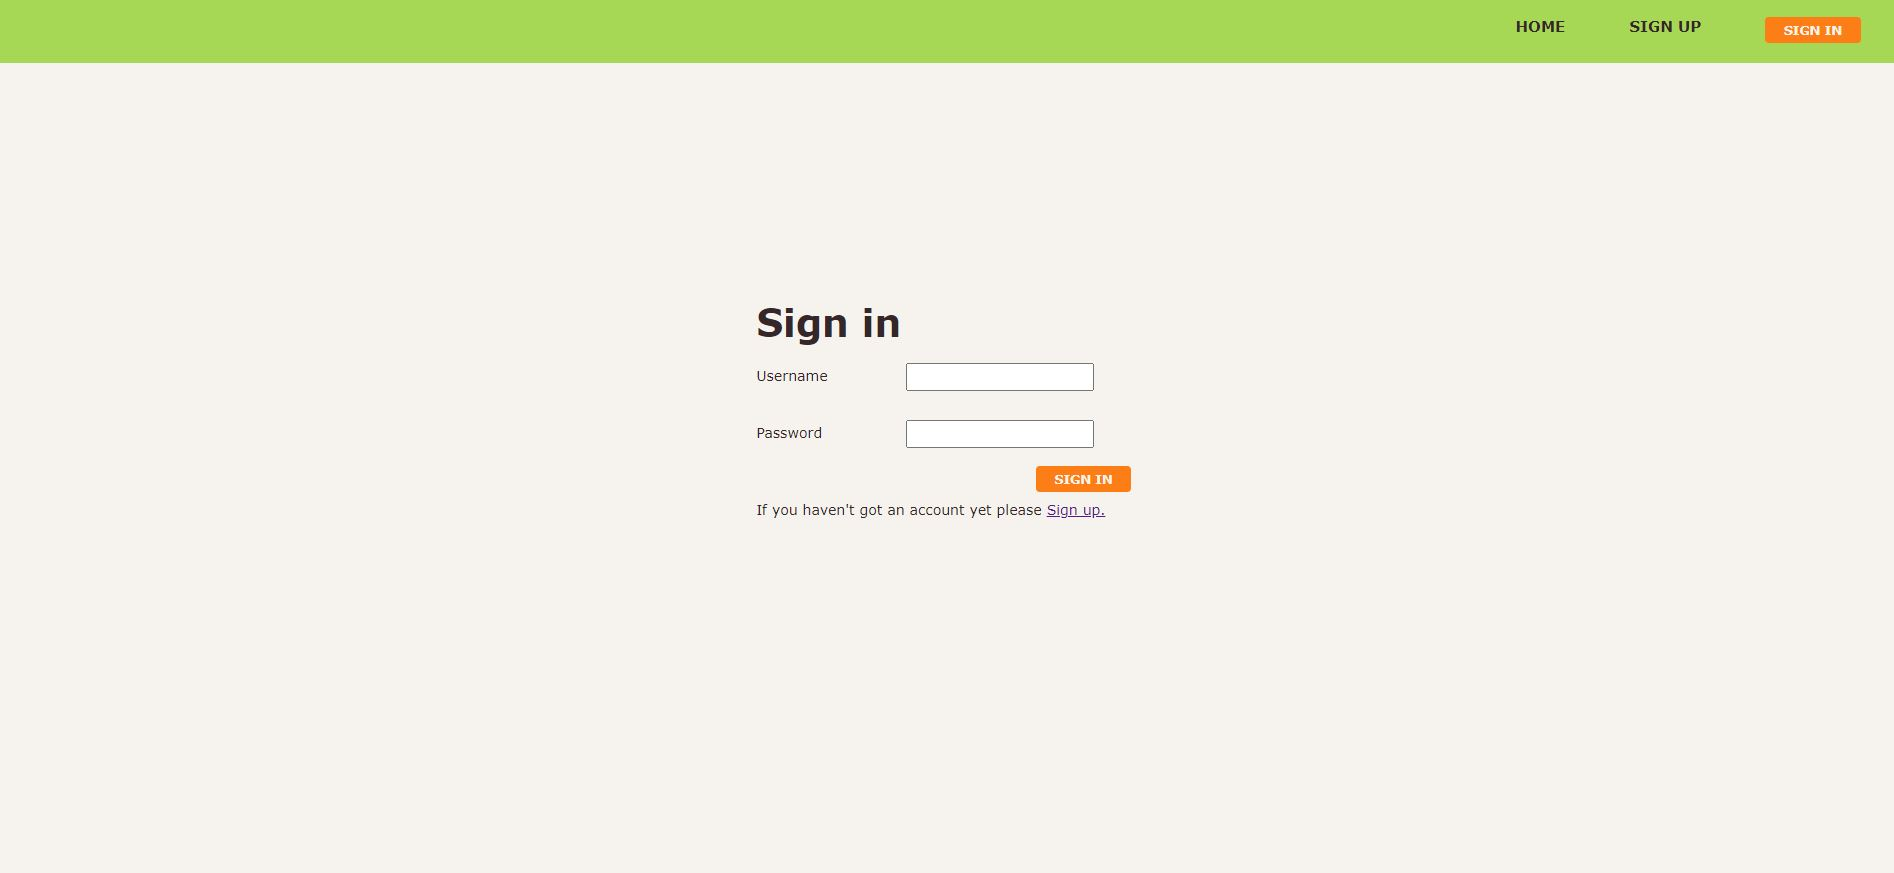
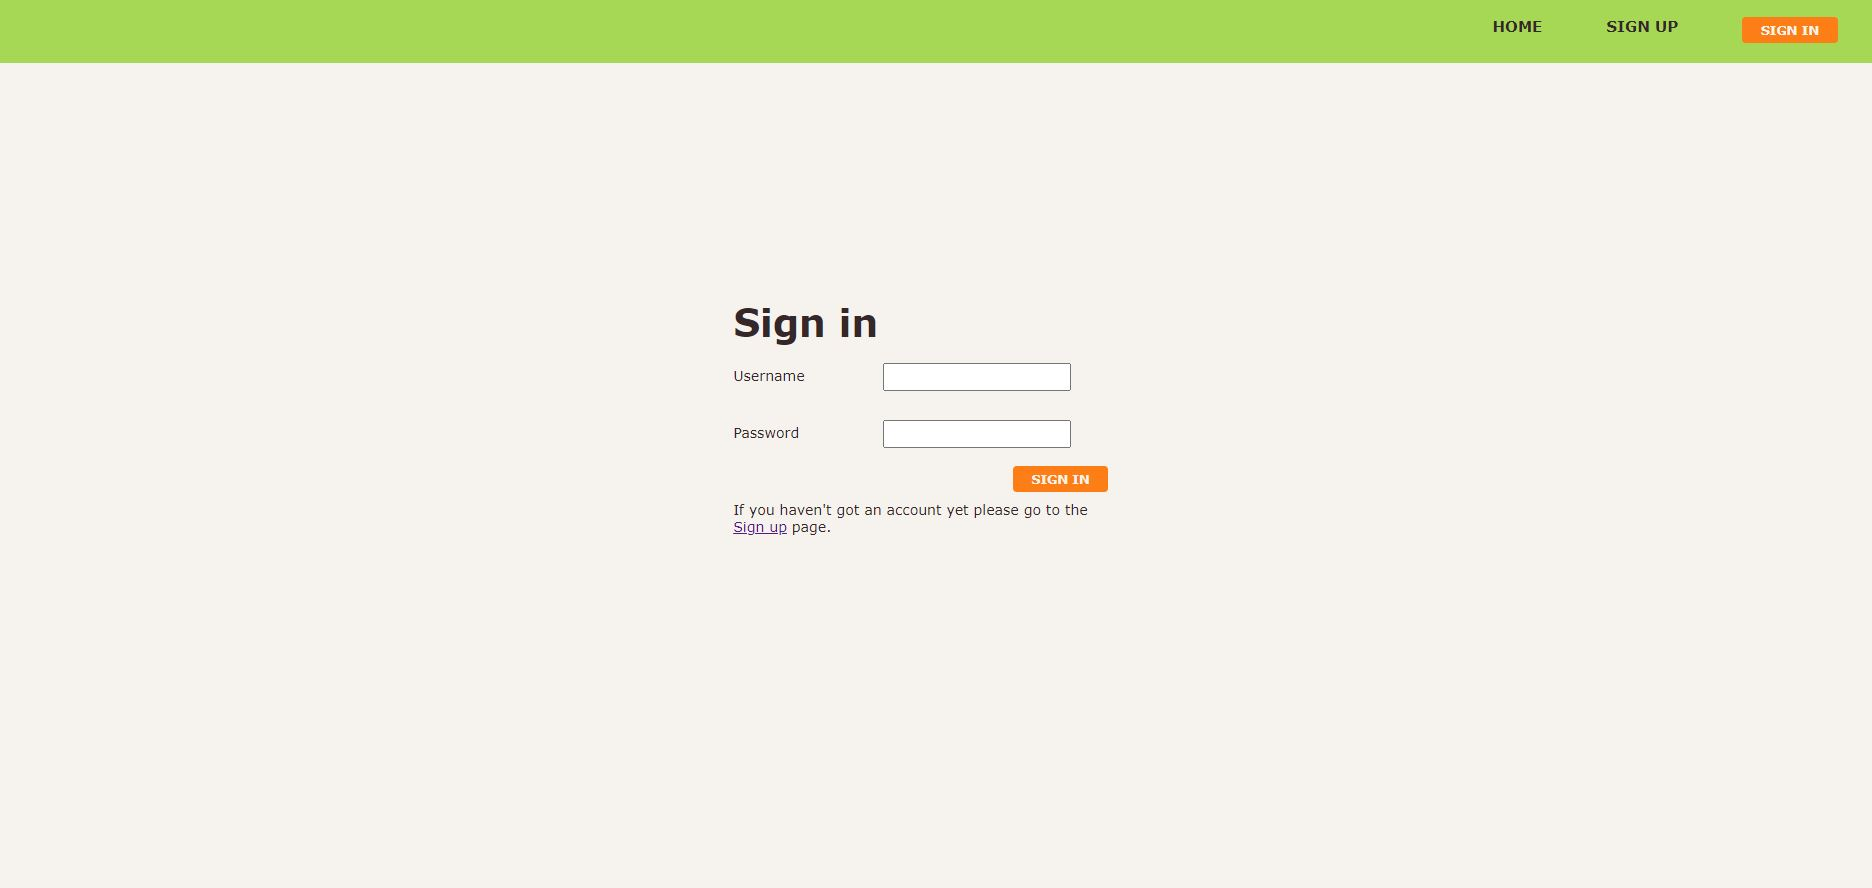
signIn and signUp changed and screenshots changed

diff --git a/src/pages/signUpPage/SignUpPage.js b/src/pages/signUpPage/SignUpPage.js
@@ -94,9 +94,9 @@ function SignUpPage() {
                     {registerSucces === true &&
                     <p>The registration succeeded. You'll be transferred to the login page</p>}
                 </form>
-                <p className={styles["navigation-register-help"]}>If you already have an account please go to <Link
+                <p className={styles["navigation-register-help"]}>If you already have an account please go to the <Link
                     to="/signin">Sign
-                    In.</Link></p>
+                    In</Link> page.</p>
                 {errorMessage && <span>Something went wrong with your registration, please try again later.</span>}
             </article>
         </div>

diff --git a/src/pages/signInPage/SignInPage.js b/src/pages/signInPage/SignInPage.js
@@ -65,9 +65,9 @@ function SignInPage() {
                         </Button>
                     </section>
                 </form>
-                <p className={styles["navigation-register-help"]}>If you haven't got an account yet please <Link
+                <p className={styles["navigation-register-help"]}>If you haven't got an account yet please go to the <Link
                     to="/signup">Sign
-                    up.</Link></p>
+                    up</Link> page.</p>
                 {errorMessage && <span>Something went wrong with logging you in, please try again later.</span>}
                 {loading && <span>Loading...</span>}
             </article>

diff --git a/src/components/recipeDetails/RecipeDetails.module.css b/src/components/recipeDetails/RecipeDetails.module.css
@@ -57,6 +57,7 @@ img.resize {
 
 .instruction-title-container {
     max-width: 500px;
+    text-align: center;
 }
 
 .recipe-tags {
@@ -84,6 +85,10 @@ img.resize {
 }
 
 @media screen and (min-width: 1295px) {
+
+    .instruction-title-container {
+       text-align: start;
+    }
 
     img.resize {
         margin: 20px;

diff --git a/src/components/inputField/InputField.module.css b/src/components/inputField/InputField.module.css
@@ -2,6 +2,7 @@
     height: 30px;
     margin: 10px;
     width: 200px;
+    padding-left: 5px;
 }
 
 .input-label {

diff --git a/src/components/searchBar/SearchBar.module.css b/src/components/searchBar/SearchBar.module.css
@@ -2,4 +2,5 @@
     margin: 10px 0 10px -10px;
     width: 330px;
     height: 30px;
+    padding-left: 5px;
 }
